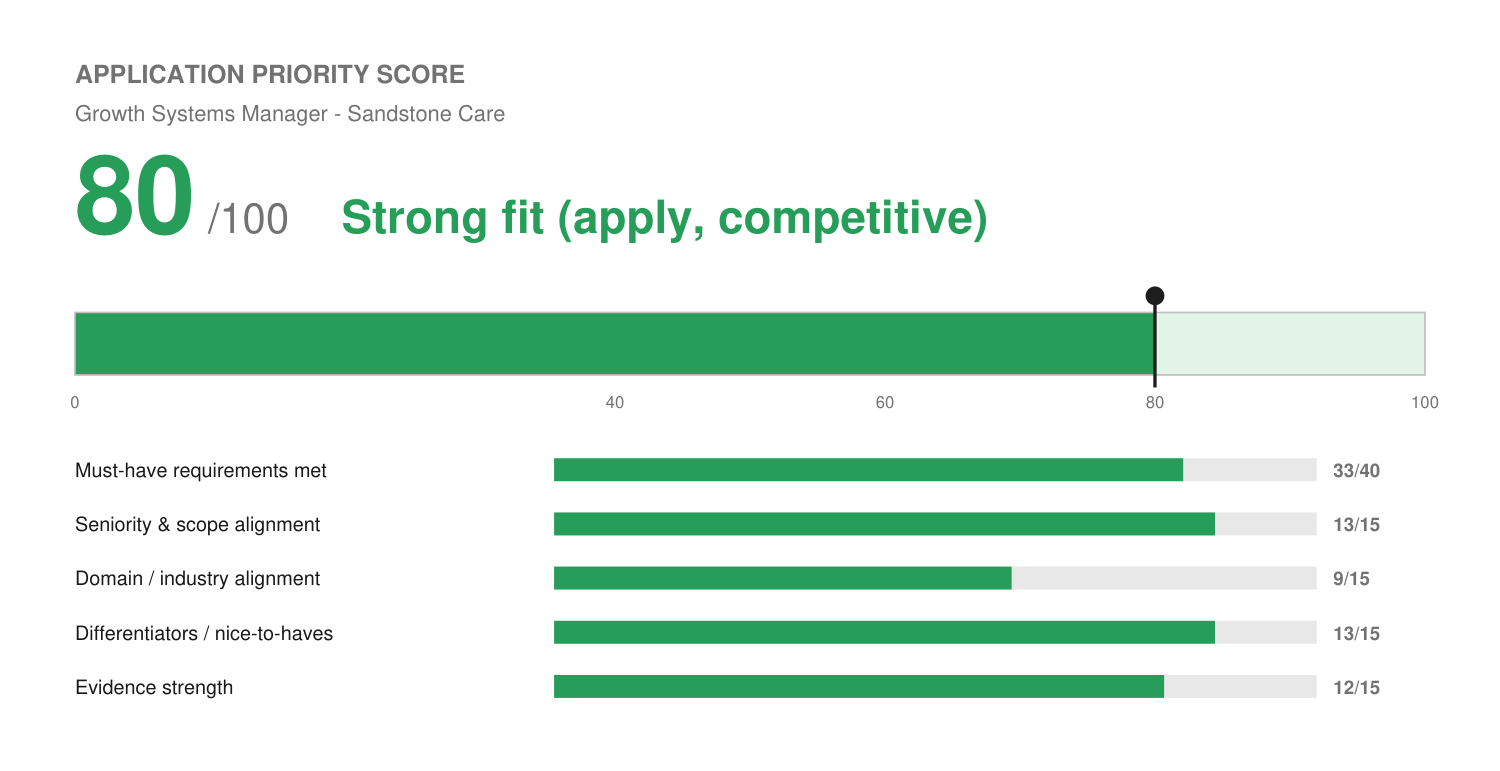
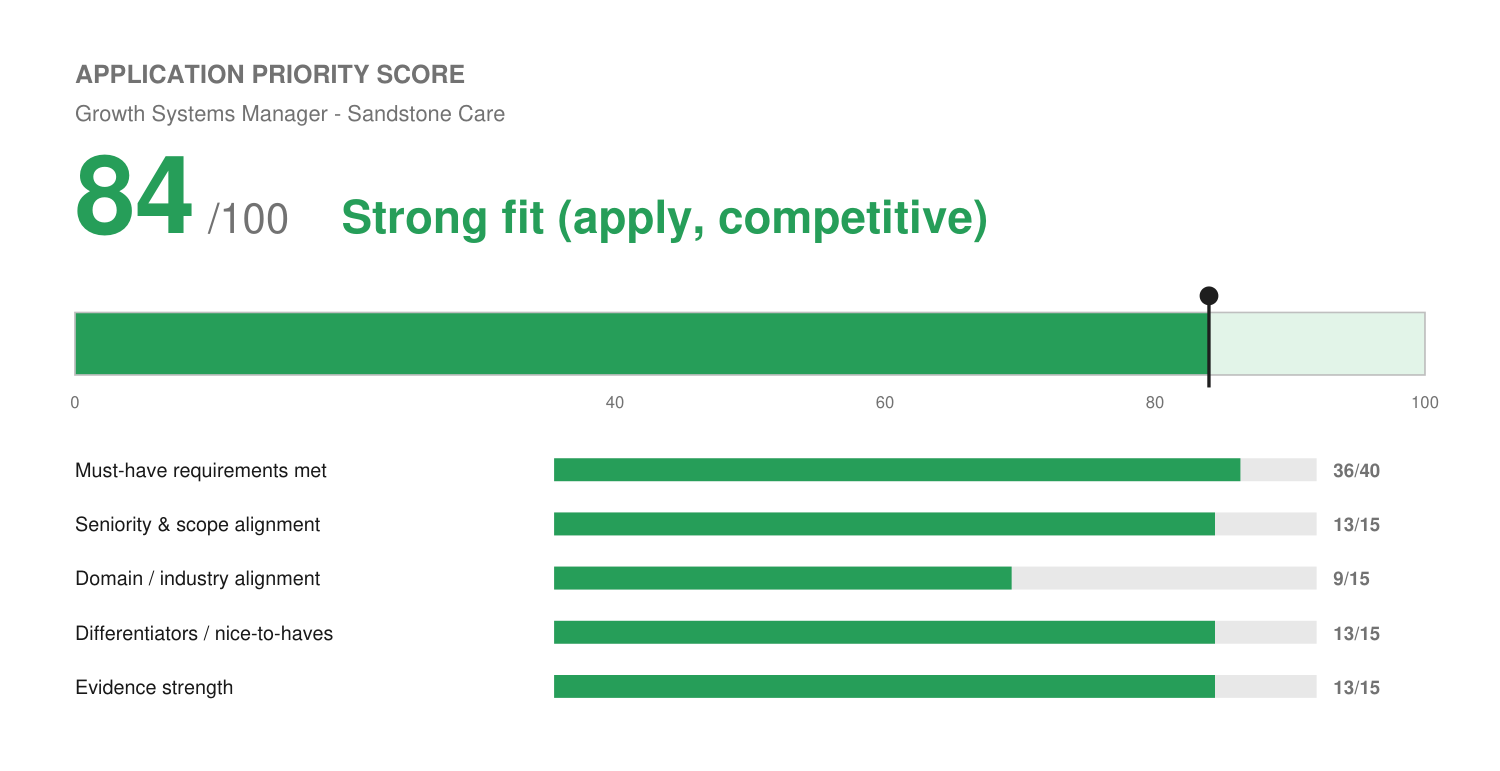
Sandstone Care Growth Systems Manager: score 84; call tracking and vendor management confirmed
Claude-Session: https://claude.ai/code/session_018DEej5NGjq1omj9BTtvEiy

diff --git a/applications/sandstone-care-growth-systems-manager/match-report.md b/applications/sandstone-care-growth-systems-manager/match-report.md
@@ -26,18 +26,18 @@ No knockout. No cap. No video answer.
 
 ## Application Priority Score
 
-⚪ **80 / 100 — Strong fit (apply, competitive)**
-`[████████████████░░░░]  80%`
+⚪ **84 / 100 — Strong fit (apply, competitive)**
+`[█████████████████░░░]  84%`
 
 *Internal decision aid, not a prediction of Sandstone's screening outcome.* See `fit.png`.
 
 | Dimension | Score | Max |
 | :--- | :---: | :---: |
-| Must-have requirements met | 33 | 40 |
+| Must-have requirements met | 36 | 40 |
 | Seniority & scope alignment | 13 | 15 |
 | Domain / industry alignment | 9 | 15 |
 | Differentiators / nice-to-haves | 13 | 15 |
-| Evidence strength | 12 | 15 |
+| Evidence strength | 13 | 15 |
 
 The core of the job (own the CRM, build workflows and integrations, tracking, dashboards, train and document) is Josh's Solenzo work. Held back by no healthcare CRM / HIPAA marketing tools, no call-tracking platform, and Salesforce as user not admin.
 
@@ -50,16 +50,15 @@ The core of the job (own the CRM, build workflows and integrations, tracking, da
 | 3+ yrs primary CRM admin/owner, config examples | Adjacent-strong | GHL/HubSpot (Solenzo) |
 | New Resilience, Salesforce, or healthcare CRM (strongly preferred) | Partial | Salesforce user + field design; no admin, no healthcare CRM |
 | API integrations (preferred) | Strong | Webhooks, REST, OAuth, JSON |
-| Call tracking / contact center (CTM, CallRail, Five9) | Gap | Not documented |
+| Call tracking / contact center (CTM, CallRail, Five9) | Adjacent-strong | Call tracking confirmed (Oct 12); specific tool not named |
 | HIPAA-compliant marketing data tools, GA4, tag management | Partial | GA4, GTM, consent setup strong; HIPAA tools gap |
 | Behavioral health knowledge (preferred) | Gap | Healthcare-adjacent only (Birdeye healthcare agencies) |
-| Vendor management | Gap/confirm | Not documented |
+| Vendor management | Strong | Confirmed (Oct 12) |
 | Dashboards, documentation, governance | Strong | Power BI, Notion |
 | Microsoft Office | Strong | Excel experienced |
 
 ## Candidate Confirmation Needed
-- Any call tracking (CallRail, CTM, GoHighLevel call tracking numbers)?
-- Any vendor or implementation-partner management?
+- Resolved Oct 12: call tracking and vendor/implementation-partner management both confirmed; added to profile, resume, cover letter. Name the call-tracking tool before the interview.
 
 ## Output Files
 - `SandstoneCare-GrowthSystemsManager-Resume.pdf` / `.docx`

diff --git a/profile/master-profile.md b/profile/master-profile.md
@@ -414,6 +414,12 @@ operator talking, not like a candidate performing.
 > another role. Specific CMP tool (Cookiebot, OneTrust, GTM consent mode) not named.
 > Piwik PRO, Adform, The Trade Desk, Outbrain remain unconfirmed/gaps.
 >
+> **Call tracking + vendor management (Josh, Oct 12 2026, Sandstone Care):** confirmed he has set up
+> and used call tracking (specific tool not named; options asked were CallRail, CTM, or
+> GoHighLevel tracking numbers) and has managed relationships with software vendors or
+> implementation partners. Attributed to Solenzo by default; claim generically until the tool
+> and vendors are named.
+>
 > **Meta Ads Manager + app-install/TikTok (Josh, Oct 8 2026, Arc wine app):** confirmed hands-on
 > Meta/Instagram campaign management in Ads Manager. Also answered yes to having run app-install
 > and/or TikTok campaigns; which one (or both), for whom, and at what scale is not captured yet.
